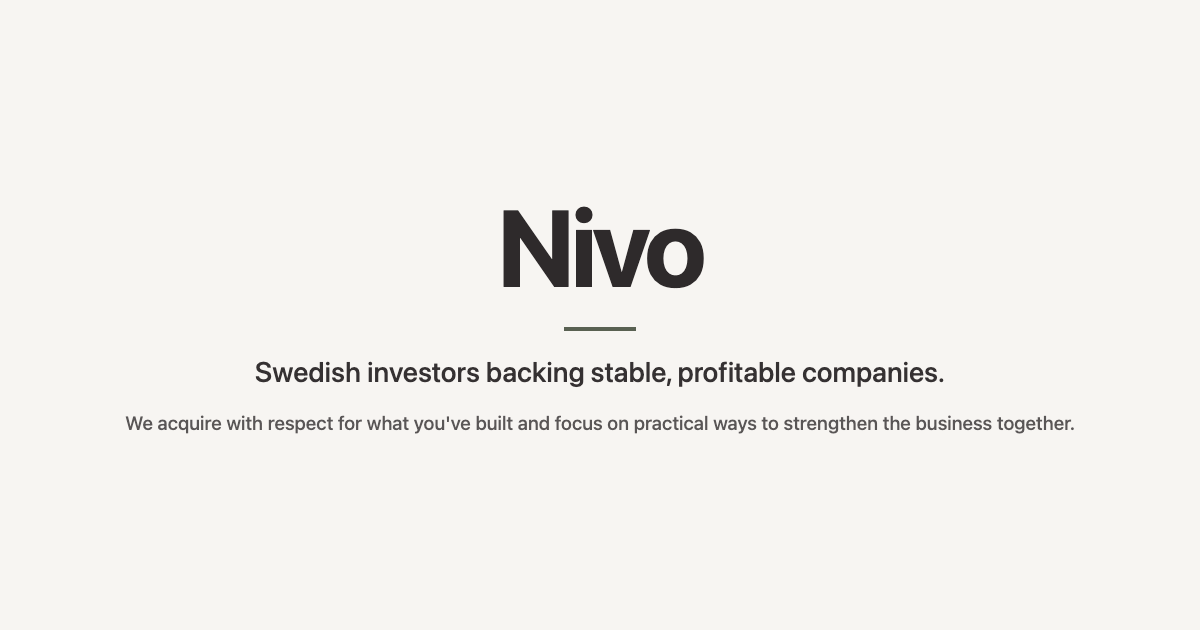
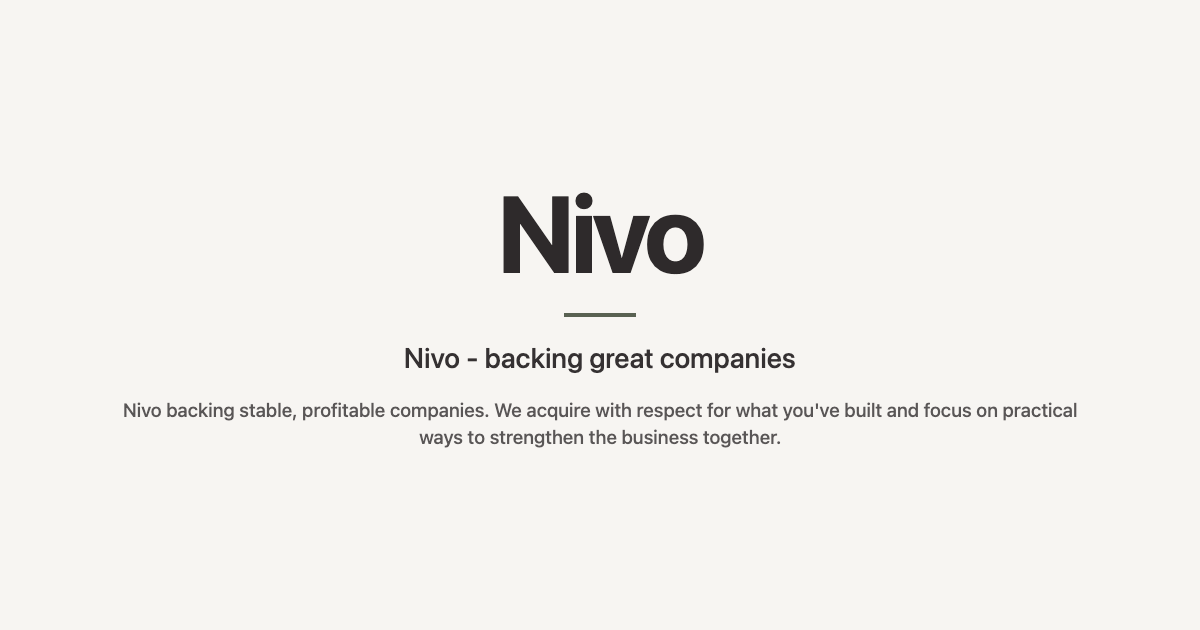
chore: Nivo branding and drop intelligence-platform framing
- index.html + render-social + og image: tagline Nivo - backing great companies;
  updated meta/OG description
- README and package.json: align product description; trim hype footer
- FastAPI: title/description Nivo API; /health service id nivo-api
- AGENTS: monorepo wording; avoid intelligence platform in user-facing copy
- Docs/scripts: replace Nivo Intelligence API and company intelligence phrasing

Made-with: Cursor

Changed region(s): [[0.0925, 0.4825, 0.8942, 0.7238], [0.4008, 0.3016, 0.5858, 0.4524]]

diff --git a/frontend/index.html b/frontend/index.html
@@ -4,30 +4,30 @@
   <head>
     <meta charset="UTF-8" />
     <meta name="viewport" content="width=device-width, initial-scale=1.0" />
-    <title>Nivo — Swedish investors backing stable, profitable companies</title>
-    <meta name="description" content="Swedish investors backing stable, profitable companies. We acquire with respect for what you've built and focus on practical ways to strengthen the business together." />
+    <title>Nivo - backing great companies</title>
+    <meta name="description" content="Nivo backing stable, profitable companies. We acquire with respect for what you've built and focus on practical ways to strengthen the business together." />
     <meta name="author" content="Nivo" />
-    <meta name="keywords" content="Swedish investors, business acquisition, stable companies, profitable SMEs, Nordic M&amp;A, entrepreneur-friendly buyer" />
+    <meta name="keywords" content="Nivo, business acquisition, stable companies, profitable SMEs, Nordic M&amp;A, entrepreneur-friendly buyer" />
     
     <!-- Canonical site URL for absolute share assets (override if you use a custom domain) -->
     <!-- Open Graph / Facebook, WhatsApp, iMessage, LinkedIn -->
     <meta property="og:type" content="website" />
-    <meta property="og:title" content="Nivo — Swedish investors backing stable, profitable companies" />
-    <meta property="og:description" content="Swedish investors backing stable, profitable companies. We acquire with respect for what you've built and focus on practical ways to strengthen the business together." />
+    <meta property="og:title" content="Nivo - backing great companies" />
+    <meta property="og:description" content="Nivo backing stable, profitable companies. We acquire with respect for what you've built and focus on practical ways to strengthen the business together." />
     <meta property="og:url" content="https://nivo.vercel.app" />
     <meta property="og:image" content="https://nivo.vercel.app/og-share-1200x630.png?v=2" />
     <meta property="og:image:secure_url" content="https://nivo.vercel.app/og-share-1200x630.png?v=2" />
     <meta property="og:image:type" content="image/png" />
     <meta property="og:image:width" content="1200" />
     <meta property="og:image:height" content="630" />
-    <meta property="og:image:alt" content="Nivo — Swedish investors backing stable, profitable companies" />
+    <meta property="og:image:alt" content="Nivo - backing great companies" />
     
     <!-- Twitter / X (large card); compact thread thumbnails still derive from the same image -->
     <meta name="twitter:card" content="summary_large_image" />
-    <meta name="twitter:title" content="Nivo — Swedish investors backing stable, profitable companies" />
-    <meta name="twitter:description" content="Swedish investors backing stable, profitable companies. We acquire with respect for what you've built and focus on practical ways to strengthen the business together." />
+    <meta name="twitter:title" content="Nivo - backing great companies" />
+    <meta name="twitter:description" content="Nivo backing stable, profitable companies. We acquire with respect for what you've built and focus on practical ways to strengthen the business together." />
     <meta name="twitter:image" content="https://nivo.vercel.app/og-share-1200x630.png?v=2" />
-    <meta name="twitter:image:alt" content="Nivo — Swedish investors backing stable, profitable companies" />
+    <meta name="twitter:image:alt" content="Nivo - backing great companies" />
     
     <!-- Square asset: legacy parsers, some in-app small thumbnails, Google logo-style hints -->
     <link rel="image_src" href="https://nivo.vercel.app/og-share-512.png?v=2" />
@@ -37,7 +37,7 @@
       "@type": "WebSite",
       "name": "Nivo",
       "url": "https://nivo.vercel.app",
-      "description": "Swedish investors backing stable, profitable companies. We acquire with respect for what you've built and focus on practical ways to strengthen the business together.",
+      "description": "Nivo backing stable, profitable companies. We acquire with respect for what you've built and focus on practical ways to strengthen the business together.",
       "image": [
         "https://nivo.vercel.app/og-share-1200x630.png?v=2",
         "https://nivo.vercel.app/og-share-512.png?v=2"

diff --git a/frontend/src/lib/intelligenceService.ts b/frontend/src/lib/intelligenceService.ts
@@ -179,7 +179,7 @@ class IntelligenceService {
     })
   }
 
-  // Company Intelligence
+  // Company profile / enrichment (legacy path name)
   async getCompanyIntel(orgnr: string): Promise<CompanyIntel> {
     return this.fetch<CompanyIntel>(`/api/companies/${orgnr}/intel`)
   }

diff --git a/backend/api/main.py b/backend/api/main.py
@@ -1,5 +1,5 @@
 """
-FastAPI application for Nivo Intelligence API
+FastAPI application for the Nivo API.
 """
 import re
 
@@ -18,8 +18,8 @@ env_path = Path(__file__).parent.parent.parent / '.env'
 load_dotenv(dotenv_path=env_path)
 
 app = FastAPI(
-    title="Nivo Intelligence API",
-    description="API for company intelligence, enrichment, and AI analysis",
+    title="Nivo API",
+    description="Company data, enrichment, analysis, and research workflows",
     version="0.1.0"
 )
 
@@ -124,7 +124,7 @@ def ping():
 @app.get("/health")
 async def health_check():
     """Health check endpoint"""
-    return {"status": "healthy", "service": "nivo-intelligence-api"}
+    return {"status": "healthy", "service": "nivo-api"}
 
 # Import routers. All app API routes live under /api/* (e.g. /api/me, /api/admin/*) for consistent CORS and proxy/tunnel routing.
 from . import admin_users, bootstrap, enroll, ai_credits, ai_filter, ai_reports, ai_analysis_api, companies, coverage, db, debug, email_webhooks, export, filters, gpt_target_universe, home, jobs, labels, lists, me, prospects, report_settings, screening, screening_campaigns, screening_run_shortlist, shortlists, status, analysis, saved_lists, universe, views  # noqa: E402

diff --git a/scripts/verify_universe_db.py b/scripts/verify_universe_db.py
@@ -138,7 +138,7 @@ def main() -> int:
             service = body.get("service", "")
             if "Deep Research" in service:
                 print(f"   Health: OK — but wrong backend: '{service}'")
-                print("   ⚠  Universe needs the full Nivo Intelligence API (backend.api.main), not the Deep Research–only app.")
+                print("   ⚠  Universe needs the full Nivo API (backend.api.main), not the Deep Research–only app.")
                 print("   Stop the current process on 8000 and run: ./scripts/start-backend.sh")
                 ok = False
             else:

diff --git a/backend/api/companies.py b/backend/api/companies.py
@@ -1,5 +1,5 @@
 """
-Company intelligence endpoints
+Company data and enrichment endpoints.
 """
 import json
 import logging
@@ -46,7 +46,7 @@ class BatchCompanyRequest(BaseModel):
 @router.get("/{orgnr}/intel")
 async def get_company_intel(orgnr: str = Path(..., description="Organization number")):
     """
-    Get all intelligence data for a company from Postgres (ai_profiles + company_enrichment).
+    Get profile and enrichment data for a company from Postgres (ai_profiles + company_enrichment).
     """
     try:
         db = get_database_service()

diff --git a/backend/agentic_pipeline/ai_reports.py b/backend/agentic_pipeline/ai_reports.py
@@ -1,5 +1,5 @@
 """
-AI Report Generation for Company Intelligence
+AI report generation for deep research runs
 Generates business model summaries, weakness detection, uplift assessment, and outreach angles.
 """
 from __future__ import annotations

diff --git a/backend/api/__init__.py b/backend/api/__init__.py
@@ -1,6 +1,5 @@
 """
-Nivo Intelligence API
-FastAPI application for intelligence endpoints
+Nivo API — FastAPI application for company and research endpoints.
 """
 
 __version__ = "0.1.0"

diff --git a/README.md b/README.md
@@ -1,6 +1,6 @@
-# Nivo - Advanced Swedish Company Intelligence Platform
+# Nivo
 
-A comprehensive AI-powered system for analyzing, valuing, and managing Swedish companies with advanced financial modeling, multi-model valuation engine, and intelligent company insights powered by GPT-4.
+**Nivo - backing great companies.** This monorepo powers our internal sourcing, analysis, and investment operations: a **Vite + React** SPA, **FastAPI** API, and **Postgres** as the source of truth. It covers company and financial data, multi-model valuation, AI-assisted research and screening, lists and pipeline views, and CRM-style workflows—built so analysis stays traceable to sources and the database schema evolves through migrations in `database/`.
 
 ## 🏗 Project Structure
 
@@ -211,13 +211,6 @@ For issues and questions:
 
 **Built with React, TypeScript, Vite, FastAPI, Postgres, and OpenAI**
 
-## 🎉 Production Ready
+## Production
 
-The Nivo platform is now a comprehensive, production-ready Swedish company intelligence system with:
-- **Advanced AI capabilities** for company analysis
-- **Multi-model valuation engine** for financial assessment  
-- **Complete saved lists functionality** for company management
-- **Secure, scalable architecture** with proper error handling
-- **Comprehensive documentation** for easy maintenance and development
-
-**All systems are operational and ready for live deployment!** 🚀
+The app is deployed with the SPA on Vercel and the API plus Postgres on our own host (see [docs/DEPLOY_MAC_MINI.md](docs/DEPLOY_MAC_MINI.md)). Use [docs/PRODUCTION_ENV_CHECKLIST.md](docs/PRODUCTION_ENV_CHECKLIST.md) and `GET /api/status/config` after changes.

diff --git a/docs/investor-page-tightning.md b/docs/investor-page-tightning.md
@@ -81,7 +81,7 @@ We acquire profitable Nordic SMEs with strong products, loyal customers and prov
 
 Many of these companies operate with manual workflows, fragmented systems and limited operational visibility. The businesses themselves are sound; execution can be significantly improved.
 
-Nivo combines hands-on ownership with a proprietary AI-enabled platform used for sourcing, analysis and operational upgrades. This allows us to identify opportunities faster, analyse companies systematically and implement improvements more effectively.
+Nivo combines hands-on ownership with proprietary internal tooling for sourcing, analysis and operational upgrades. This allows us to identify opportunities faster, analyse companies systematically and implement improvements more effectively.
 
 
 ------------------------------------------------------------
@@ -305,7 +305,7 @@ Replace:
 
 With:
 
-Our platform analyses Swedish SMEs in the SEK 50–200m revenue range.
+Our sourcing and analysis workflow covers Swedish SMEs in the SEK 50–200m revenue range.
 
 
 ------------------------------------------------------------

diff --git a/QUICK_START.md b/QUICK_START.md
@@ -1,5 +1,5 @@
 # Quick Start Guide
-## Get Nivo Intelligence System Running in 15 Minutes
+## Get Nivo running in 15 minutes
 
 ---
 
@@ -125,7 +125,7 @@ npm run dev
 ## Step 7: Verify Setup
 
 1. **Backend API**: http://localhost:8000/health
-   - Should return: `{"status": "healthy", "service": "nivo-intelligence-api"}`
+   - Should return: `{"status": "healthy", "service": "nivo-api"}`
 
 2. **Frontend**: http://localhost:5173
    - Should load dashboard
@@ -162,7 +162,7 @@ Once everything is running:
 
 1. ✅ Test financial filter endpoint (when implemented)
 2. ✅ Trigger first enrichment job (when implemented)
-3. ✅ View company intelligence (when implemented)
+3. ✅ View company profiles and enrichment (when implemented)
 
 See `docs/IMPLEMENTATION_START_GUIDE.md` for detailed implementation plan.
 

diff --git a/AGENTS.md b/AGENTS.md
@@ -2,7 +2,7 @@
 
 ## Purpose
 
-This repository contains the Nivo deep research platform.
+This repository is the Nivo monorepo: apps, API, and deep research tooling.
 
 All coding agents working in this repo must follow the implementation architecture defined in `docs/deep_research`.
 
@@ -23,7 +23,7 @@ When working on the Nivo deep research system, always read and follow:
 
 ## Project intent
 
-This system is an evidence-first, agentic research and investment analysis platform.
+This system is evidence-first, agentic research and investment analysis. Do not describe Nivo as an “intelligence platform” in user-facing or marketing copy.
 
 It must:
 

diff --git a/TESTING_GUIDE.md b/TESTING_GUIDE.md
@@ -31,7 +31,7 @@ BACKEND_URL="${VITE_API_BASE_URL:-http://localhost:8000}"
 
 # Health check
 curl $BACKEND_URL/health
-# Should return: {"status":"healthy","service":"nivo-intelligence-api"}
+# Should return: {"status":"healthy","service":"nivo-api"}
 
 # API status
 curl $BACKEND_URL/api/status
